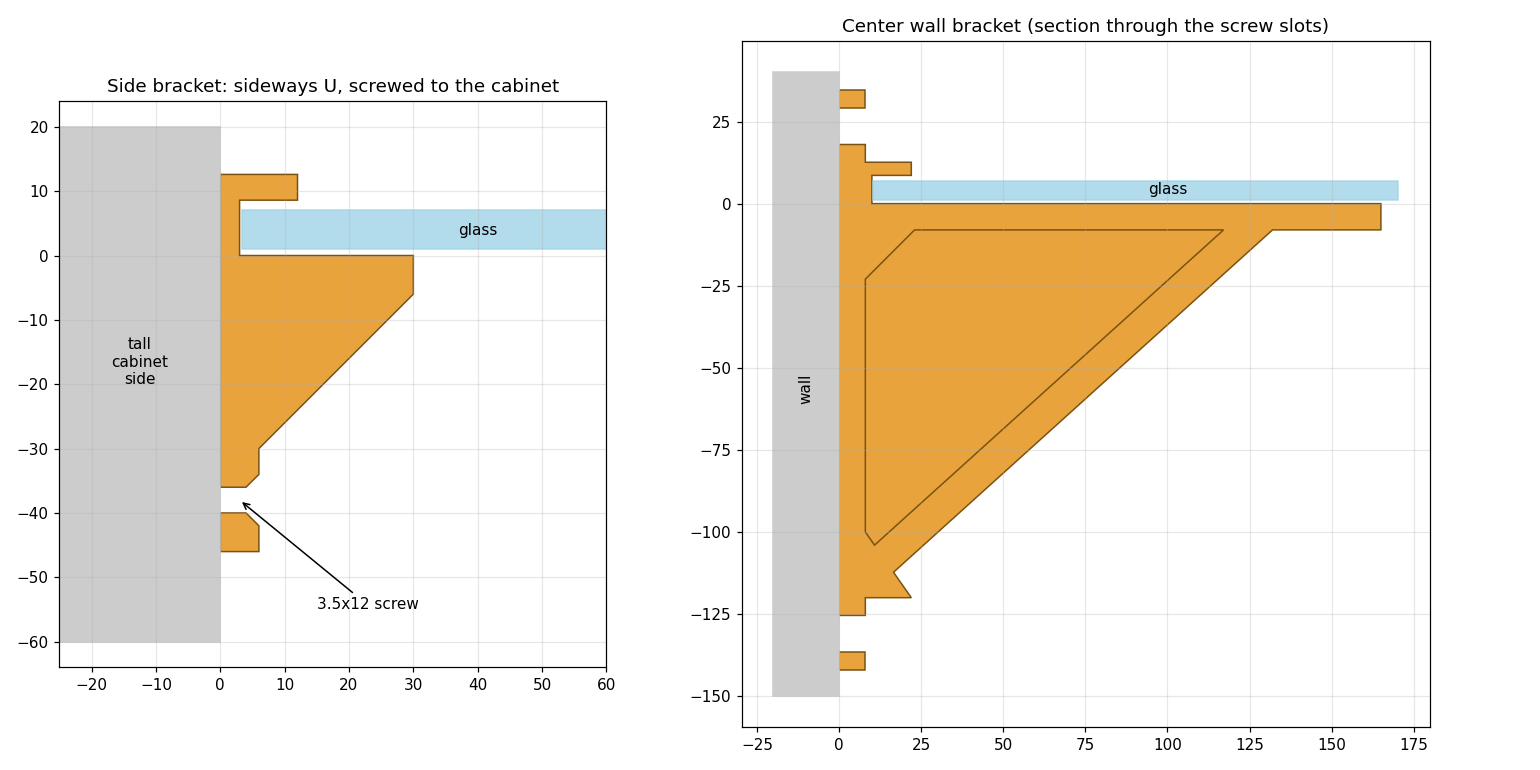
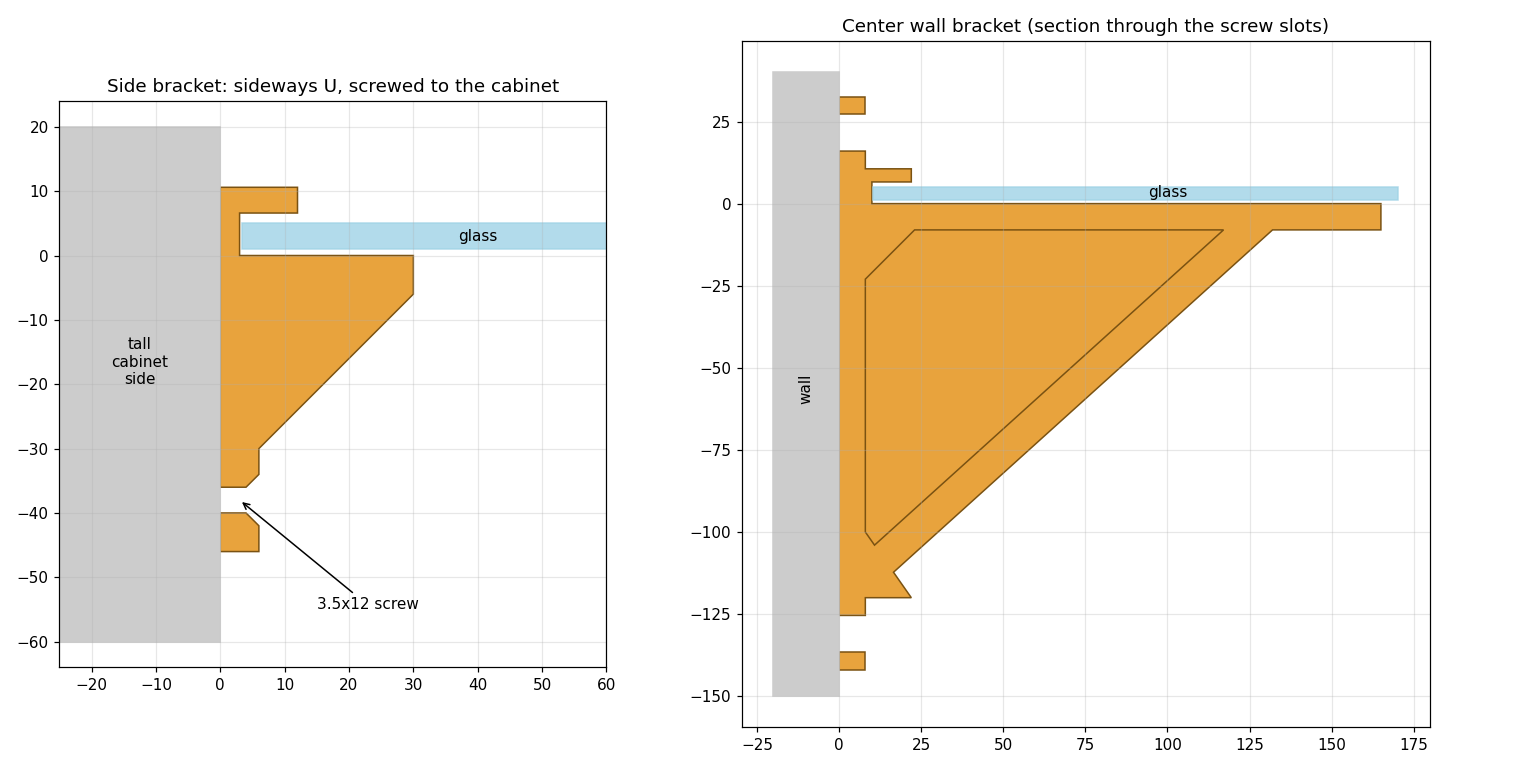
set besta glass thickness to 4 mm

Changed region(s): [[0.1247, 0.2182, 0.4052, 0.3117], [0.5299, 0.187, 0.9039, 0.2494], [0.5299, 0.0935, 0.561, 0.1558]]

diff --git a/FreeCad/Besta Glass Shelf Support/glass_shelf_supports.py b/FreeCad/Besta Glass Shelf Support/glass_shelf_supports.py
@@ -10,7 +10,7 @@ import Part
 import Mesh
 
 # ------------- PARAMETERS (MEASURE BEFORE PRINTING!) -------------
-GLASS_T   = 6.0    # glass thickness (measure it with a caliper)
+GLASS_T   = 4.0    # glass thickness (IKEA spec: 0.4 cm, check with a caliper)
 PAD       = 1.0    # adhesive felt/rubber pad thickness (above and below the glass)
 CLEAR     = 0.6    # clearance to slide the glass in
 SLOT      = GLASS_T + 2 * PAD + CLEAR   # slot height
